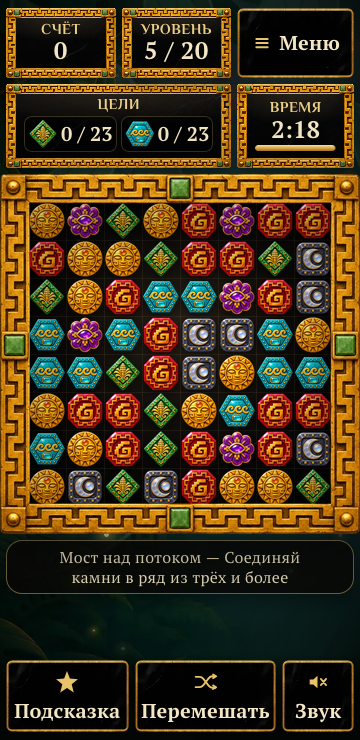
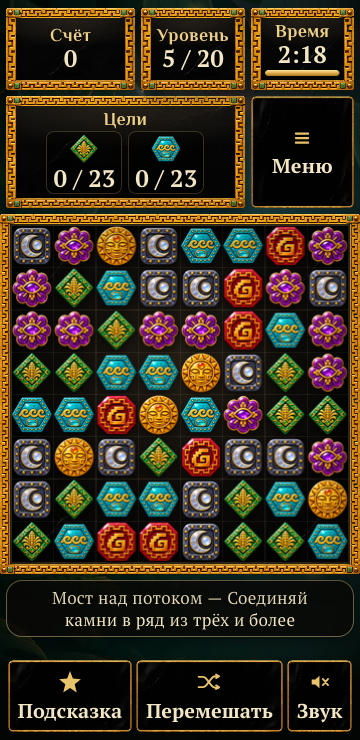
Игровой экран: поле на телефоне во всю ширину, крупный текст, спокойное кольцо серии, длинный счёт

diff --git a/css/hud.css b/css/hud.css
@@ -115,6 +115,12 @@
 
 /* 40–46 px; на узкой колонке шестизначный счёт всё ещё в одну строку */
 .score-value { font-size: clamp(40px, calc(var(--side) * .17), 46px); letter-spacing: .02em; }
+/* Длинный счёт (длина строки — data-len из setScore) набираем мельче, чтобы
+   «1 234 567» и «12 345 678» помещались в табличку; не мельче 32 px.
+   max-width + overflow: если всё же не влезет, это видно по scrollWidth. */
+.score-value { max-width: 100%; overflow: hidden; }
+.score-value[data-len="9"] { font-size: clamp(32px, calc(var(--side) * .14), 38px); }
+.score-value[data-len="10"], .score-value[data-len="11"] { font-size: 32px; }
 .score-value.bump { animation: scoreBump .32s ease; }
 
 @keyframes scoreBump {
@@ -400,30 +406,34 @@
 }
 
 /* ---------- Телефон (портрет) ----------
-     score | level | menu
-     goals   goals | time
-     поле во всю ширину
+     score | level | time
+     goals   goals | menu
+     поле во всю ширину (тонкая рамка)
      подсказка
      панель кнопок снизу (fixed)                                      */
 @media (max-width: 900px) and (orientation: portrait), (max-width: 900px) and (min-height: 501px) {
   .game-shell {
     --pad-x: 6px;
-    --bar-h: 84px;
-    /* Поле — во всю ширину, но не выше свободной области: сверху таблички
-       и цели (~170 px), снизу подсказка и панель кнопок (~140 px). */
-    --frame: min(100vw, max(260px, calc(100dvh - 312px - env(safe-area-inset-top) - env(safe-area-inset-bottom))));
+    --bar-h: 86px;
+    /* Над полем: таблички и цели (~216 px, с тремя-четырьмя целями ещё
+       ~60 px); под полем подсказка (~60 px) и панель кнопок (~94 px). */
+    --above: 216px;
+    --below: 154px;
+    --frame: min(100vw, 620px, max(260px, calc(100dvh - var(--above) - var(--below) - env(safe-area-inset-top) - env(safe-area-inset-bottom))));
     min-height: 100dvh;
     max-width: 620px;
-    grid-template-columns: minmax(0, 1fr) minmax(0, 1fr) auto;
+    grid-template-columns: minmax(0, 1.25fr) minmax(0, 1fr) minmax(0, 1fr);
     grid-template-rows: auto auto auto;
     grid-template-areas:
-      "score level menu"
-      "goals goals time"
+      "score level time"
+      "goals goals menu"
       "board board board";
     gap: 6px;
     align-content: start;
     padding: max(8px, env(safe-area-inset-top)) var(--pad-x) calc(var(--bar-h) + 8px + env(safe-area-inset-bottom));
   }
+  /* Три-четыре цели ложатся в два ряда — поле на столько же ниже */
+  .game-shell:has(.goal-chip:nth-child(3)) { --above: 284px; }
 
   .left-panel, .right-panel, .info-pair { display: contents; }
   .score-plaque { grid-area: score; }
@@ -437,32 +447,36 @@
   .hud-plaque {
     border-width: 10px;
     border-image-width: 10px 15px 10px 16px;
-    padding: 2px 8px 4px;
+    padding: 2px 4px 4px;
     box-shadow: 0 6px 14px rgba(0, 0, 0, .45);
   }
-  .plaque-label { font-size: 16px; letter-spacing: .05em; }
-  .score-value, .level-value, .time-value { font-size: 26px; }
+  /* Строчные подписи короче заглавных — крупный кегль помещается */
+  .plaque-label { font-size: 18px; letter-spacing: .02em; text-transform: none; }
+  .score-value, .level-value, .time-value { font-size: 28px; letter-spacing: 0; }
+  .score-value[data-len="9"] { font-size: 22px; }
+  .score-value[data-len="10"], .score-value[data-len="11"] { font-size: 20px; }
   .time-track { height: 6px; margin-top: 3px; }
 
-  .goal-card { padding: 2px 8px 6px; }
-  .card-title { margin-bottom: 3px; }
-  .goal-list { display: grid; grid-template-columns: repeat(2, minmax(0, 1fr)); gap: 4px; }
-  .goal-chip { gap: 6px; padding: 2px 6px 2px 3px; }
+  /* Цели: камень над счётчиком, в ряд (две на строку) */
+  .goal-card { padding: 2px 6px 4px; }
+  .card-title { margin-bottom: 2px; }
+  .goal-list { display: flex; flex-flow: row wrap; justify-content: center; gap: 4px 6px; }
+  .goal-chip { flex-direction: column; gap: 1px; padding: 2px 6px; }
   .goal-chip .mini-gem { width: 30px; height: 30px; }
   .goal-name { display: none; }
   .goal-meta { align-items: center; }
-  .goal-count { font-size: 20px; }
-  .goal-check { left: 22px; bottom: 0; width: 16px; height: 16px; padding: 2px; }
+  .goal-count { font-size: 24px; }
+  .goal-check { left: calc(50% + 4px); bottom: auto; top: 16px; width: 16px; height: 16px; padding: 2px; }
 
   .plate-btn {
-    border-width: 10px;
-    border-image-width: 10px;
-    border-radius: 10px;
+    border-width: 8px;
+    border-image-width: 8px;
+    border-radius: 9px;
     font-size: 20px;
   }
-  .plate-btn::after { inset: -10px; border-radius: 10px; }
-  .menu-btn { width: auto; height: auto; min-height: 60px; padding: 0 4px; gap: 6px; }
-  .menu-btn svg { width: 22px; height: 22px; }
+  .plate-btn::after { inset: -8px; border-radius: 9px; }
+  .menu-btn { width: auto; height: auto; min-height: 60px; flex-direction: column; justify-content: center; padding: 0 4px; gap: 2px; }
+  .menu-btn svg { width: 24px; height: 24px; }
 
   /* Нижняя панель: три кнопки с подписями под иконками */
   .tool-row {
@@ -473,10 +487,10 @@
     z-index: 20;
     flex-direction: row;
     justify-content: center;
-    gap: 6px;
+    gap: 4px;
     width: auto;
     margin: 0;
-    padding: 6px 6px calc(8px + env(safe-area-inset-bottom));
+    padding: 6px 4px calc(8px + env(safe-area-inset-bottom));
     background: linear-gradient(180deg, rgba(3, 4, 3, 0), rgba(3, 4, 3, .85) 34%);
     pointer-events: none;
   }
@@ -488,20 +502,31 @@
     flex-direction: column;
     justify-content: center;
     gap: 2px;
-    padding: 0 6px;
+    padding: 0 2px;
+    letter-spacing: 0;
     pointer-events: auto;
   }
   .tool-btn svg { width: 26px; height: 26px; }
   .btn-badge { top: -10px; right: -8px; min-width: 28px; height: 24px; font-size: 16px; line-height: 22px; }
 
-  /* Поле от края до края */
+  /* Поле от края до края. Толстая золотая рамка съела бы 15% ширины,
+     поэтому на телефоне — тонкий меандр табличек (panel-frame): по краям
+     он однородный, украшения только в углах, режется border-image без
+     искажений. Поле начинается у внутреннего края золота (10 px), камни
+     под рамку не заходят. */
   .board-area { width: auto; margin-inline: calc(-1 * var(--pad-x)); }
-  .board-frame { width: var(--frame); padding: calc(var(--frame) * .075); margin-inline: auto; }
-  .board { border-radius: 4px; border-width: 1px; }
+  .board-frame { width: var(--frame); padding: 10px; margin-inline: auto; }
+  .board-frame::after {
+    background: none;
+    border: 10px solid transparent;
+    border-image: var(--panel-frame) 58 83 58 89 / 10px 14px 10px 15px round;
+    filter: drop-shadow(0 10px 18px rgba(0, 0, 0, .6));
+  }
+  .board { border-radius: 2px; border-width: 1px; }
   .tiles, .fx-layer, .board-bg { inset: 0; }
   .gem-inner { inset: 1%; }
   .gem.selected::after { border-width: 3px; }
-  .combo-badge { font-size: 20px; padding: 2px 14px 3px; }
+  .combo-badge { top: 5px; font-size: 20px; padding: 2px 14px 3px; }
   .game-shell .hint-bar {
     width: auto;
     max-width: calc(100% - 12px);
@@ -514,15 +539,34 @@
     padding: 6px 12px;
     max-width: calc(100% - 12px);
     border-radius: 16px;
-    font-size: 16px;
+    font-size: 17px;
   }
-  .toast { font-size: 16px; padding: 8px 16px; }
+  .toast { font-size: 17px; padding: 8px 16px; }
+}
+
+/* Высокий телефон: под полем остаётся место — отдаём его кнопкам и
+   подсказке, а остаток делим поровну между рядами (без пустой полосы) */
+@media (max-width: 900px) and (orientation: portrait) and (min-height: 800px) {
+  .game-shell { --bar-h: 96px; --below: 172px; align-content: space-evenly; }
+  .tool-btn { height: 82px; gap: 4px; font-size: 21px; }
+  .tool-btn svg { width: 30px; height: 30px; }
+  .hint-bar { font-size: 18px; }
+}
+
+/* Невысокий телефон и три-четыре цели: без подписи «Цели» и с камнями
+   помельче, чтобы два ряда целей не отнимали у поля больше, чем нужно */
+@media (max-width: 900px) and (orientation: portrait) and (max-height: 799px) {
+  .goal-card:has(.goal-chip:nth-child(3)) .card-title { display: none; }
+  .goal-card:has(.goal-chip:nth-child(3)) { padding-top: 4px; }
+  .goal-card:has(.goal-chip:nth-child(3)) .mini-gem { width: 26px; height: 26px; }
+  .goal-card:has(.goal-chip:nth-child(3)) .goal-count { line-height: 1; }
+  .game-shell:has(.goal-chip:nth-child(3)) { --above: 252px; }
 }
 
 /* Узкий телефон: цифры чуть меньше, чтобы «12 345» и «12 / 20» не упирались в рамку */
 @media (max-width: 379px) {
   .score-value, .level-value, .time-value { font-size: 24px; }
-  .plaque-label { font-size: 15px; letter-spacing: .03em; }
+  .score-value[data-len="9"] { font-size: 22px; }
 }
 
 /* ---------- Телефон боком (и другие низкие широкие окна) ----------
@@ -560,16 +604,20 @@
     border-image-width: 10px 15px 10px 16px;
     padding: 0 8px 2px;
   }
-  .plaque-label { font-size: 15px; letter-spacing: .05em; }
-  .score-value, .level-value, .time-value { font-size: 24px; }
+  .plaque-label { font-size: 18px; letter-spacing: .02em; text-transform: none; }
+  .score-value, .level-value, .time-value { font-size: 26px; }
+  .score-value[data-len="9"] { font-size: 24px; }
+  .score-value[data-len="10"], .score-value[data-len="11"] { font-size: 22px; }
   .time-track { height: 6px; margin-top: 2px; }
   .goal-card { padding: 0 8px 4px; }
   .card-title { margin-bottom: 2px; }
+  /* Имена целей не помещаются крупно — остаются камень и счётчик */
   .goal-list { gap: 3px; }
-  .goal-chip { padding: 1px 6px 1px 3px; gap: 6px; }
+  .goal-chip { justify-content: center; padding: 1px 6px 1px 3px; gap: 8px; }
   .goal-chip .mini-gem { width: 28px; height: 28px; }
-  .goal-name { font-size: 15px; }
-  .goal-count { font-size: 20px; }
+  .goal-name { display: none; }
+  .goal-meta { flex: 0 1 auto; }
+  .goal-count { font-size: 24px; }
   .goal-check { left: 20px; bottom: 0; width: 16px; height: 16px; padding: 2px; }
 
   .plate-btn {

diff --git a/css/screens.css b/css/screens.css
@@ -22,7 +22,7 @@
   content: '';
   position: absolute;
   inset: -6px;
-  border-radius: 24px;
+  border-radius: 999px;
   pointer-events: none;
   border: 2px solid rgba(255, 214, 120, .9);
   opacity: 0;
@@ -32,7 +32,7 @@
 
 @keyframes sfxBadgeBump {
   0% { scale: 1; }
-  40% { scale: 1.32; }
+  40% { scale: 1.15; }
   100% { scale: 1; }
 }
 
@@ -44,7 +44,7 @@ body[data-combo="5"] .combo-badge {
 }
 
 body[data-combo="4"] .combo-badge::after,
-body[data-combo="5"] .combo-badge::after { animation: sfxRingPulse 1.1s ease-out infinite; }
+body[data-combo="5"] .combo-badge::after { opacity: 1; animation: sfxRingBreath 1.6s ease-in-out infinite alternate; }
 
 body[data-combo="6"] .combo-badge,
 body[data-combo="7"] .combo-badge,
@@ -58,17 +58,21 @@ body[data-combo="8"] .combo-badge {
 body[data-combo="6"] .combo-badge::after,
 body[data-combo="7"] .combo-badge::after {
   border-color: rgba(255, 150, 60, .95);
-  animation: sfxRingPulse .8s ease-out infinite;
+  opacity: 1;
+  animation: sfxRingBreath 1.4s ease-in-out infinite alternate;
 }
 
 body[data-combo="8"] .combo-badge::after {
   border-color: rgba(255, 245, 190, 1);
-  animation: sfxRingPulse .55s ease-out infinite;
+  opacity: 1;
+  animation: sfxRingBreath 1.2s ease-in-out infinite alternate;
 }
 
-@keyframes sfxRingPulse {
-  0% { opacity: .9; transform: scale(.95); }
-  100% { opacity: 0; transform: scale(1.35); }
+/* Кольцо вокруг значка «дышит»: туда-обратно, без сброса, яркость не ниже
+   0,5 — спокойная пульсация, а не мигание. Без движения — статичное. */
+@keyframes sfxRingBreath {
+  from { opacity: .5; transform: scale(1); }
+  to { opacity: 1; transform: scale(1.06); }
 }
 
 /* --- Удар по полю (scale складывается с transform тряски) --- */

diff --git a/js/game.js b/js/game.js
@@ -189,7 +189,10 @@
   /* ---------- Счёт, цели, комбо, звук ---------- */
   function setScore(value, animate) {
     state.score = value;
-    dom.score.textContent = fmtNum(value);
+    const text = fmtNum(value);
+    dom.score.textContent = text;
+    // Длина строки — для CSS: длинный счёт («1 234 567») набирается мельче
+    dom.score.dataset.len = String(text.length);
     if (animate) {
       dom.score.classList.remove('bump');
       void dom.score.offsetWidth;
